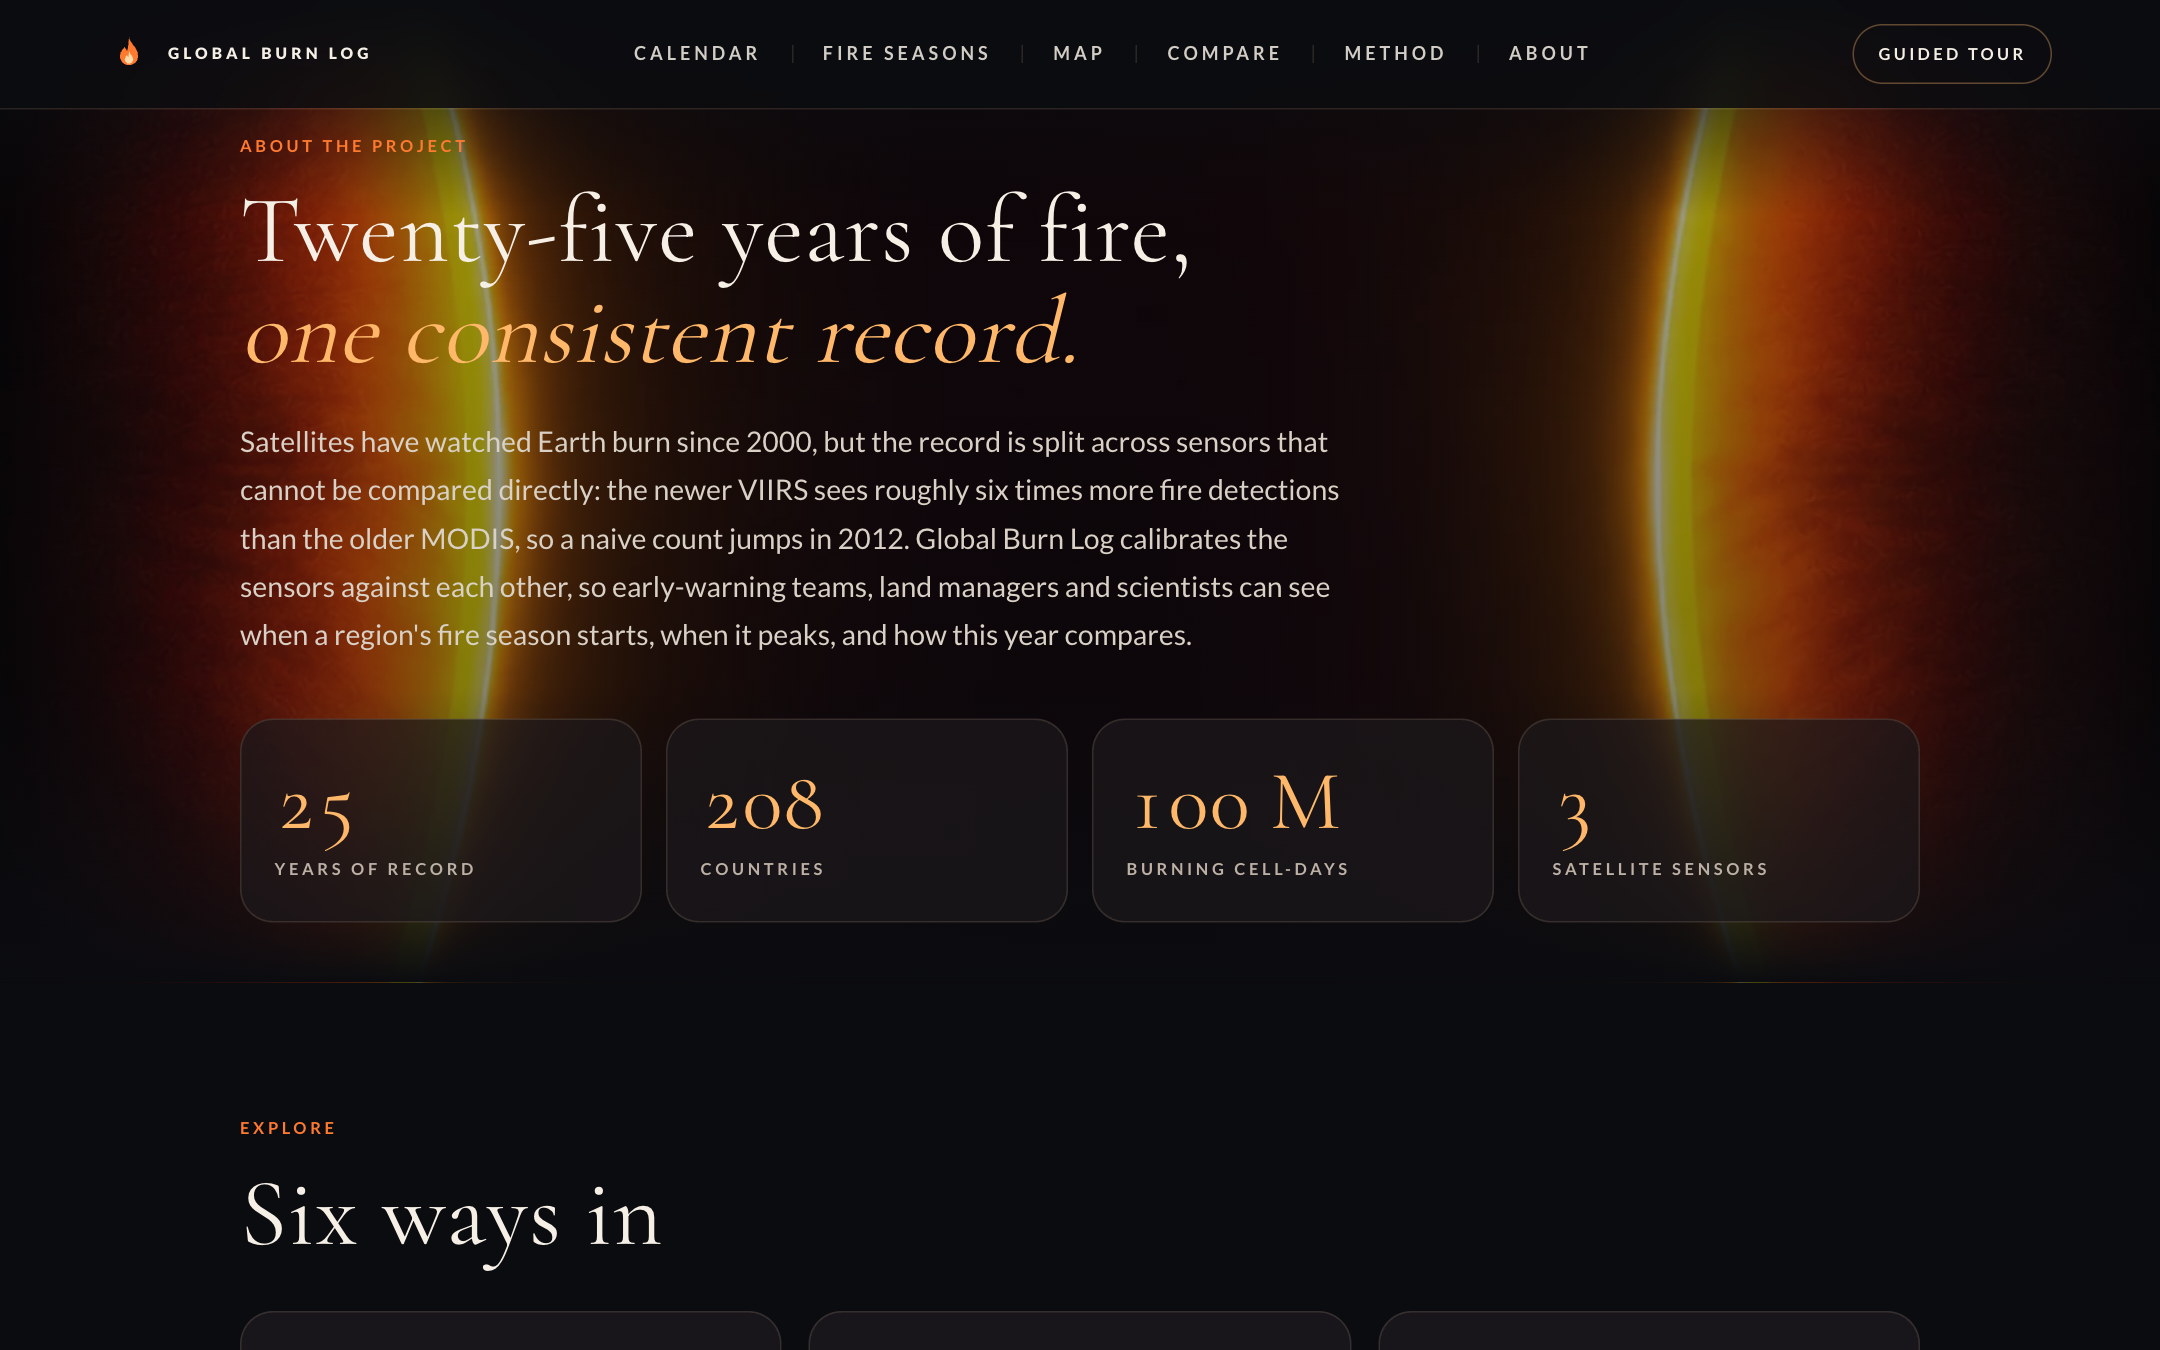
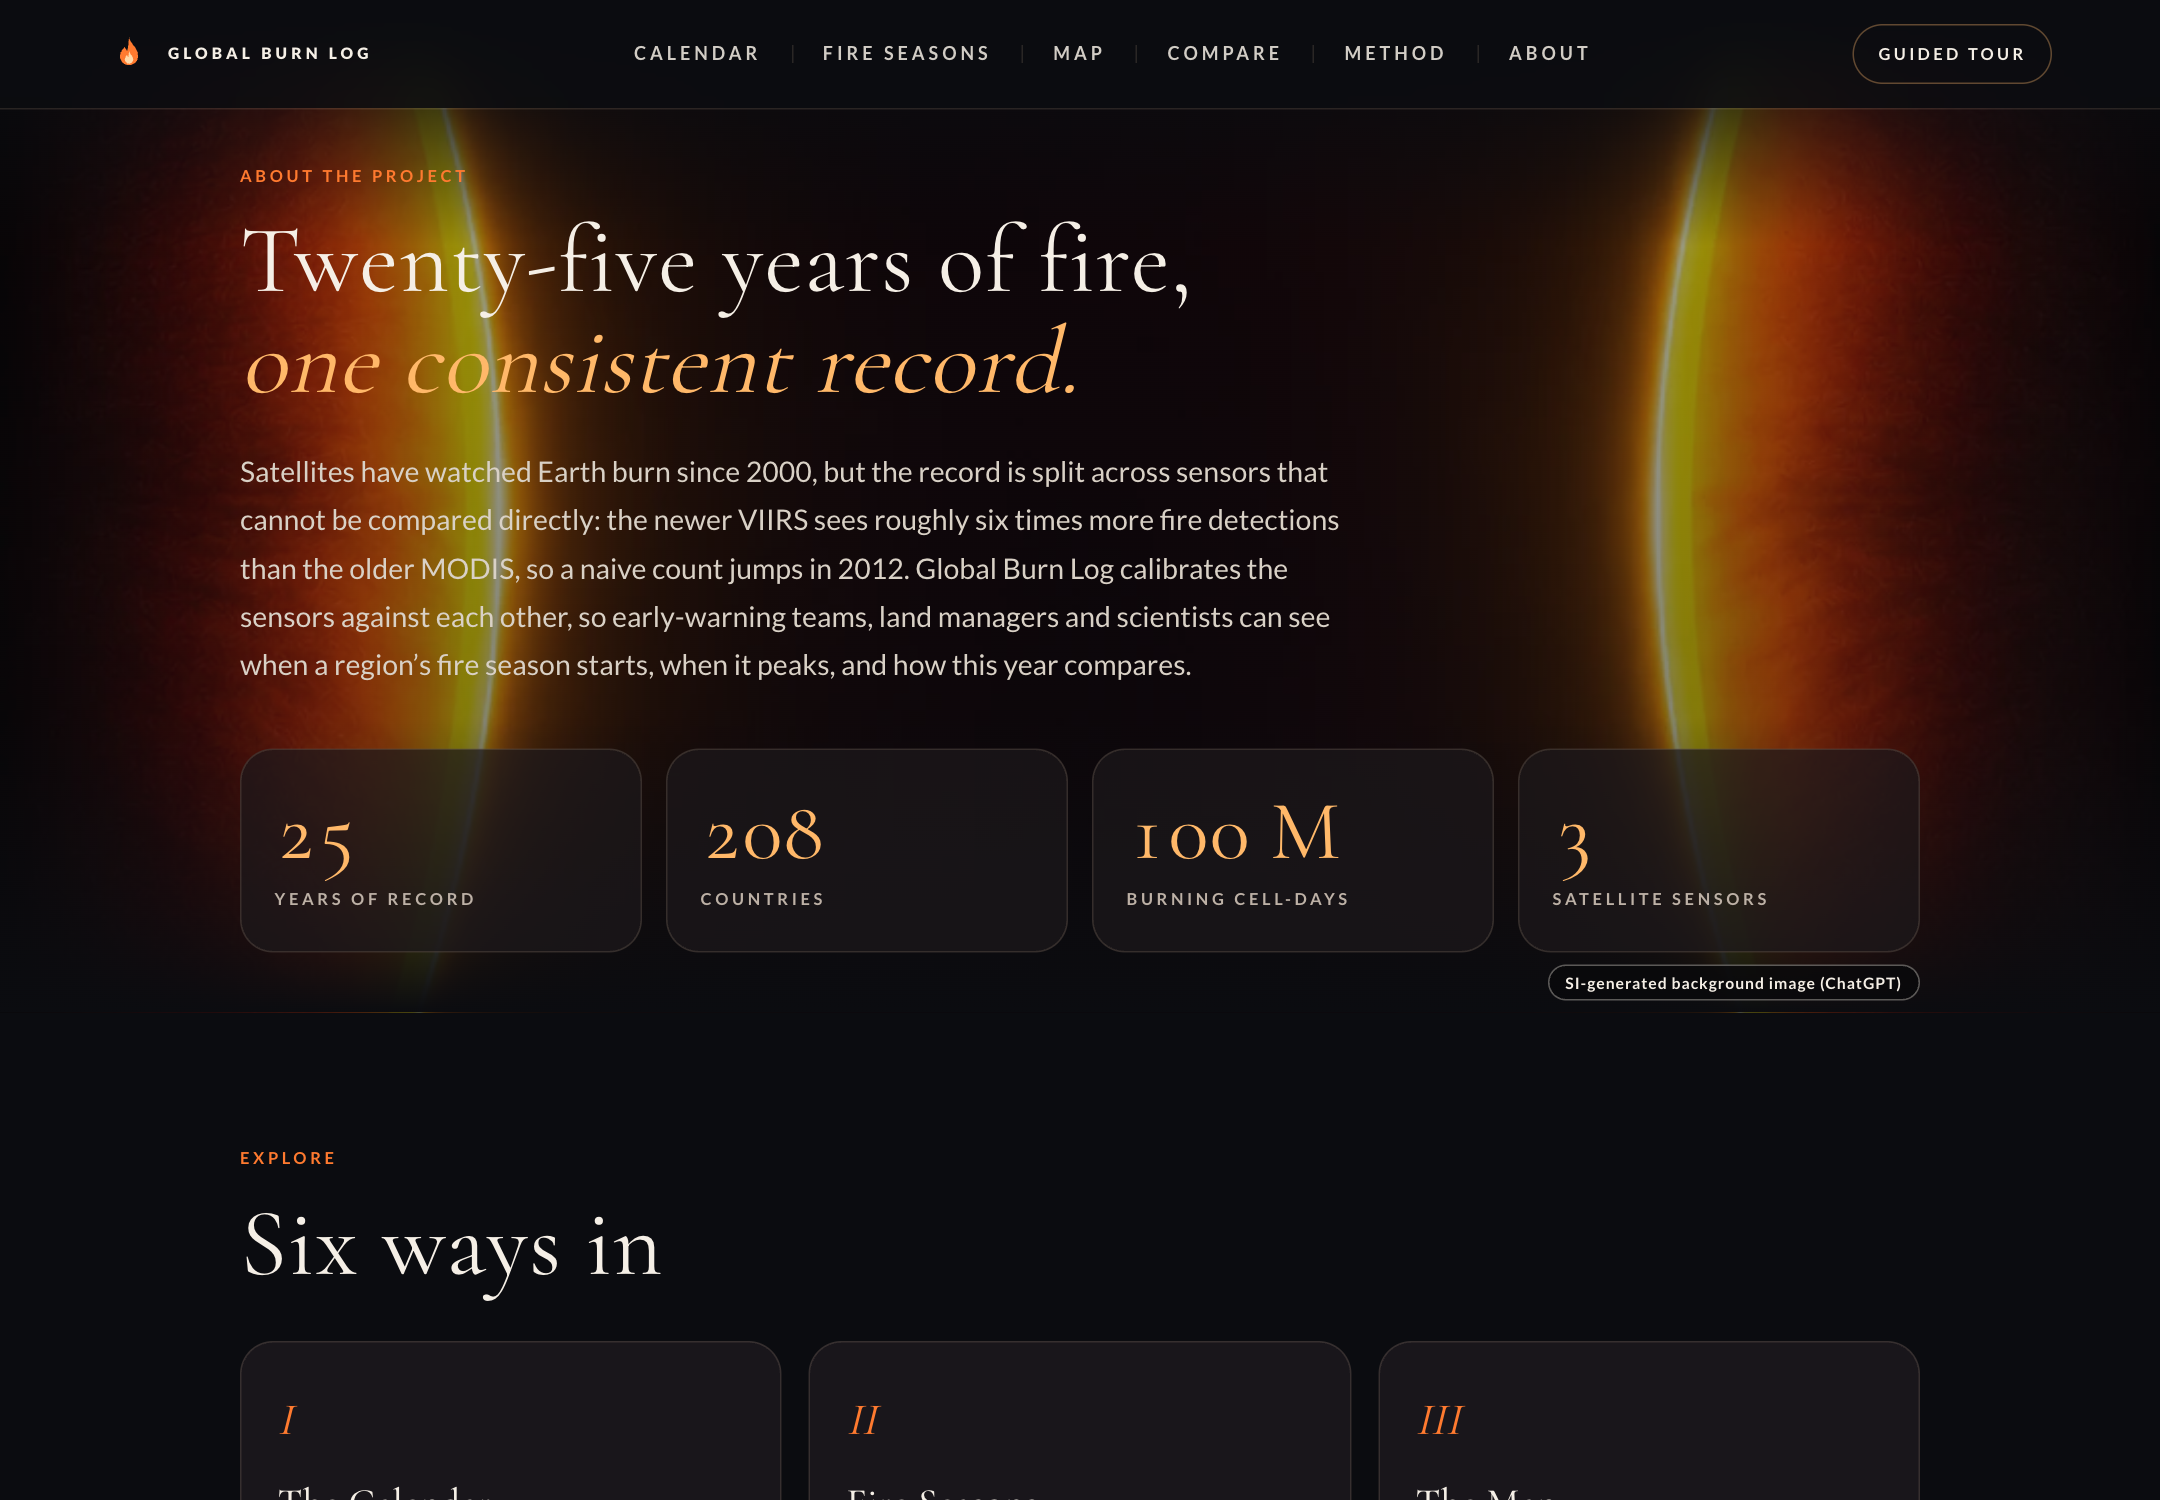
Shorter SI label so it clears the page content

diff --git a/app/src/styles.css b/app/src/styles.css
@@ -575,7 +575,7 @@ pre.code { max-width: 100%; }
 
 /* visible label on images made with a generative model (NASA Space Apps SI rule) */
 .si-mark { z-index: 6; padding: 5px 11px; border-radius: 999px; background: rgba(8,8,10,.78); border: 1px solid rgba(245,239,230,.35); color: #f5efe6; font: 700 10.5px var(--sans); letter-spacing: .06em; pointer-events: none; }
-.si-mark.fixed { position: fixed; left: 12px; bottom: 12px; z-index: 8; }
+.si-mark.fixed { position: fixed; left: 8px; bottom: 8px; z-index: 8; font-size: 10px; padding: 4px 9px; }
 .si-mark.corner { position: absolute; right: 14px; bottom: 14px; }
 .about-bg > .si-mark.corner { right: 0; bottom: 8px; }
 @media (max-width: 700px) { .si-mark { font-size: 9.5px; padding: 4px 9px; } .si-mark.fixed { left: 8px; bottom: 8px; } }

diff --git a/app/src/App.jsx b/app/src/App.jsx
@@ -195,7 +195,7 @@ export default function App() {
       <Nav key={lang} route={route} />
       <div className="progress" aria-hidden="true" />
       {route !== "/" && <div className="page-bg" aria-hidden="true" />}
-      {route !== "/" && <div className="si-mark fixed" role="note">SI-generated background image (ChatGPT)</div>}
+      {route !== "/" && <div className="si-mark fixed" role="note">SI-generated image (ChatGPT)</div>}
       <Fragment key={`${palette}-${lang}`}>{route === "/" ? <Home nCountries={nCountries} /> : <RoutedPage route={route} />}</Fragment>
       <SiteFooter palette={palette} onPalette={choosePalette} lang={lang} onLang={chooseLang} />
       <TourMount />

diff --git a/docs/submission/PROJECT_PAGE.md b/docs/submission/PROJECT_PAGE.md
@@ -48,7 +48,7 @@ Active-fire hotspots have been recorded for more than 20 years, but the record i
 Python (pandas, H3, PyArrow, h5py, rasterio), React and Vite, MapLibre GL and deck.gl, D3, Firebase Hosting (Google Cloud free tier), a Porkbun domain. All code is open in the repository, with a README that reproduces the dataset end to end (the historical archive needs no API key).
 
 ## Use of AI (disclosure)
-The team set the goal and made the design decisions. The page backgrounds and the glowing-tree picture on the site were generated with ChatGPT and carry a visible "SI-generated" label; the front-page hero is a real photograph. Claude (Anthropic) was used as a tool to help plan, and Claude Code to write the data pipeline, the web app and the documentation. A planning conversation with Claude was used to discuss options and draft the plan; the team chose the direction. No generative AI was used to create imagery: the hero art is drawn in code from the real fire detections, the charts are plots of real data, and the architecture diagram is hand-coded. The site uses no NASA logos or mission identifiers. See `AI_USAGE.md` in the repository.
+The team set the goal and made the design decisions. The page backgrounds and the glowing-tree picture on the site were generated with ChatGPT and carry a visible "SI-generated" label; the front-page hero is a real photograph. Claude (Anthropic) was used as a tool to help plan, and Claude Code to write the data pipeline, the web app and the documentation. A planning conversation with Claude was used to discuss options and draft the plan; the team chose the direction. Images: the front-page hero is a real photograph; the page backgrounds and the glowing-tree picture were generated with ChatGPT and are labelled "SI-generated" on the site and in the AI disclosure; the charts are plots of real data and the architecture diagram is hand-coded. The site uses no NASA logos, flags or mission identifiers.
 
 ## Links (fill in before submitting)
 - Live app: https://globalburnlog.earth
